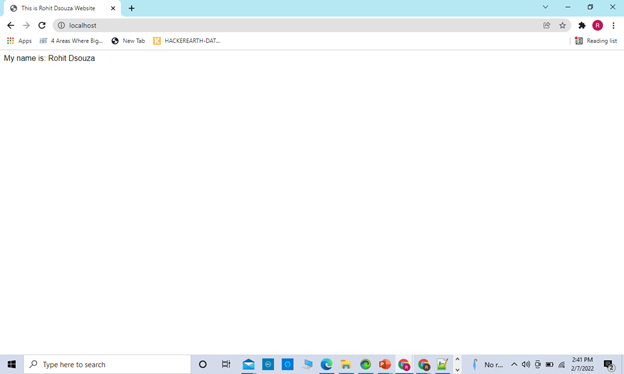
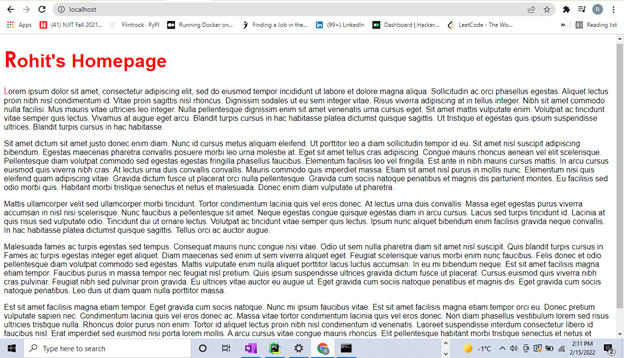
first webpage

diff --git a/app/templates/index.html b/app/templates/index.html
@@ -12,6 +12,59 @@
 
 </head>
 <body>
-My name is: {{ name }}
+<div id ="main_menu" class = "red makeBigger">
+<h1><span class = "red makeBigger centuryGothic">R</span>ohit's Homepage </h1>
+</div>
+<div id ="main_content">
+    <p><span class = "red makeBigger centuryGothic">L</span>orem ipsum dolor sit amet, consectetur adipiscing elit, sed do eiusmod tempor incididunt ut labore et dolore magna
+    aliqua. Sollicitudin ac orci phasellus egestas. Aliquet lectus proin nibh nisl condimentum id. Vitae proin sagittis
+    nisl rhoncus. Dignissim sodales ut eu sem integer vitae. Risus viverra adipiscing at in tellus integer. Nibh sit
+    amet commodo nulla facilisi. Mus mauris vitae ultricies leo integer. Nulla pellentesque dignissim enim sit amet
+    venenatis urna cursus eget. Sit amet mattis vulputate enim. Volutpat ac tincidunt vitae semper quis lectus. Vivamus
+    at augue eget arcu. Blandit turpis cursus in hac habitasse platea dictumst quisque sagittis. Ut tristique et egestas
+    quis ipsum suspendisse ultrices. Blandit turpis cursus in hac habitasse.
+    </p>
+    <p>
+    Sit amet dictum sit amet justo donec enim diam. Nunc id cursus metus aliquam eleifend. Ut porttitor leo a diam
+    sollicitudin tempor id eu. Sit amet nisl suscipit adipiscing bibendum. Egestas maecenas pharetra convallis posuere
+    morbi leo urna molestie at. Eget sit amet tellus cras adipiscing. Congue mauris rhoncus aenean vel elit scelerisque.
+    Pellentesque diam volutpat commodo sed egestas egestas fringilla phasellus faucibus. Elementum facilisis leo vel
+    fringilla. Est ante in nibh mauris cursus mattis. In arcu cursus euismod quis viverra nibh cras. At lectus urna duis
+    convallis convallis. Mauris commodo quis imperdiet massa. Etiam sit amet nisl purus in mollis nunc. Elementum nisi
+    quis eleifend quam adipiscing vitae. Gravida dictum fusce ut placerat orci nulla pellentesque. Gravida cum sociis
+    natoque penatibus et magnis dis parturient montes. Eu facilisis sed odio morbi quis. Habitant morbi tristique
+    senectus et netus et malesuada. Donec enim diam vulputate ut pharetra.
+    </p>
+    <p>
+    Mattis ullamcorper velit sed ullamcorper morbi tincidunt. Tortor condimentum lacinia quis vel eros donec. At lectus
+    urna duis convallis. Massa eget egestas purus viverra accumsan in nisl nisi scelerisque. Nunc faucibus a
+    pellentesque sit amet. Neque egestas congue quisque egestas diam in arcu cursus. Lacus sed turpis tincidunt id.
+    Lacinia at quis risus sed vulputate odio. Tincidunt dui ut ornare lectus. Volutpat ac tincidunt vitae semper quis
+    lectus. Ipsum nunc aliquet bibendum enim facilisis gravida neque convallis. In hac habitasse platea dictumst quisque
+    sagittis. Tellus orci ac auctor augue.
+    </p>
+    <p>
+    Malesuada fames ac turpis egestas sed tempus. Consequat mauris nunc congue nisi vitae. Odio ut sem nulla pharetra
+    diam sit amet nisl suscipit. Quis blandit turpis cursus in. Fames ac turpis egestas integer eget aliquet. Diam
+    maecenas sed enim ut sem viverra aliquet eget. Feugiat scelerisque varius morbi enim nunc faucibus. Felis donec et
+    odio pellentesque diam volutpat commodo sed egestas. Mattis vulputate enim nulla aliquet porttitor lacus luctus
+    accumsan. In eu mi bibendum neque. Est sit amet facilisis magna etiam tempor. Faucibus purus in massa tempor nec
+    feugiat nisl pretium. Quis ipsum suspendisse ultrices gravida dictum fusce ut placerat. Cursus euismod quis viverra
+    nibh cras pulvinar. Feugiat nibh sed pulvinar proin gravida. Eu ultrices vitae auctor eu augue ut. Eget gravida cum
+    sociis natoque penatibus et magnis dis. Eget gravida cum sociis natoque penatibus. Leo duis ut diam quam nulla
+    porttitor massa.
+    </p>
+    <p>
+    Est sit amet facilisis magna etiam tempor. Eget gravida cum sociis natoque. Nunc mi ipsum faucibus vitae. Est sit
+    amet facilisis magna etiam tempor orci eu. Donec pretium vulputate sapien nec. Condimentum lacinia quis vel eros
+    donec ac. Massa vitae tortor condimentum lacinia quis vel eros donec. Non diam phasellus vestibulum lorem sed risus
+    ultricies tristique nulla. Rhoncus dolor purus non enim. Tortor id aliquet lectus proin nibh nisl condimentum id
+    venenatis. Laoreet suspendisse interdum consectetur libero id faucibus nisl. Erat imperdiet sed euismod nisi porta
+    lorem mollis. A arcu cursus vitae congue mauris rhoncus. Elit pellentesque habitant morbi tristique senectus et
+    netus et malesuada. Iaculis urna id volutpat lacus laoreet. Eleifend mi in nulla posuere sollicitudin aliquam
+    ultrices sagittis orci. Et ligula ullamcorper malesuada proin libero nunc. Cursus in hac habitasse platea.
+    </p>
+</div>
+
 </body>
 </html>

diff --git a/app/static/css/style.css b/app/static/css/style.css
@@ -1,3 +1,13 @@
 body {
     font-family: Helvetica, "Helvetica Neue", sans-serif;
 }
+.red{
+    color:red;
+}
+.centuryGothic{
+    font-family:"Century Gothic", CenturyGothic, AppleGothic, sans-serif;
+}
+.makeBigger{
+    font-size: 120%;
+
+}
